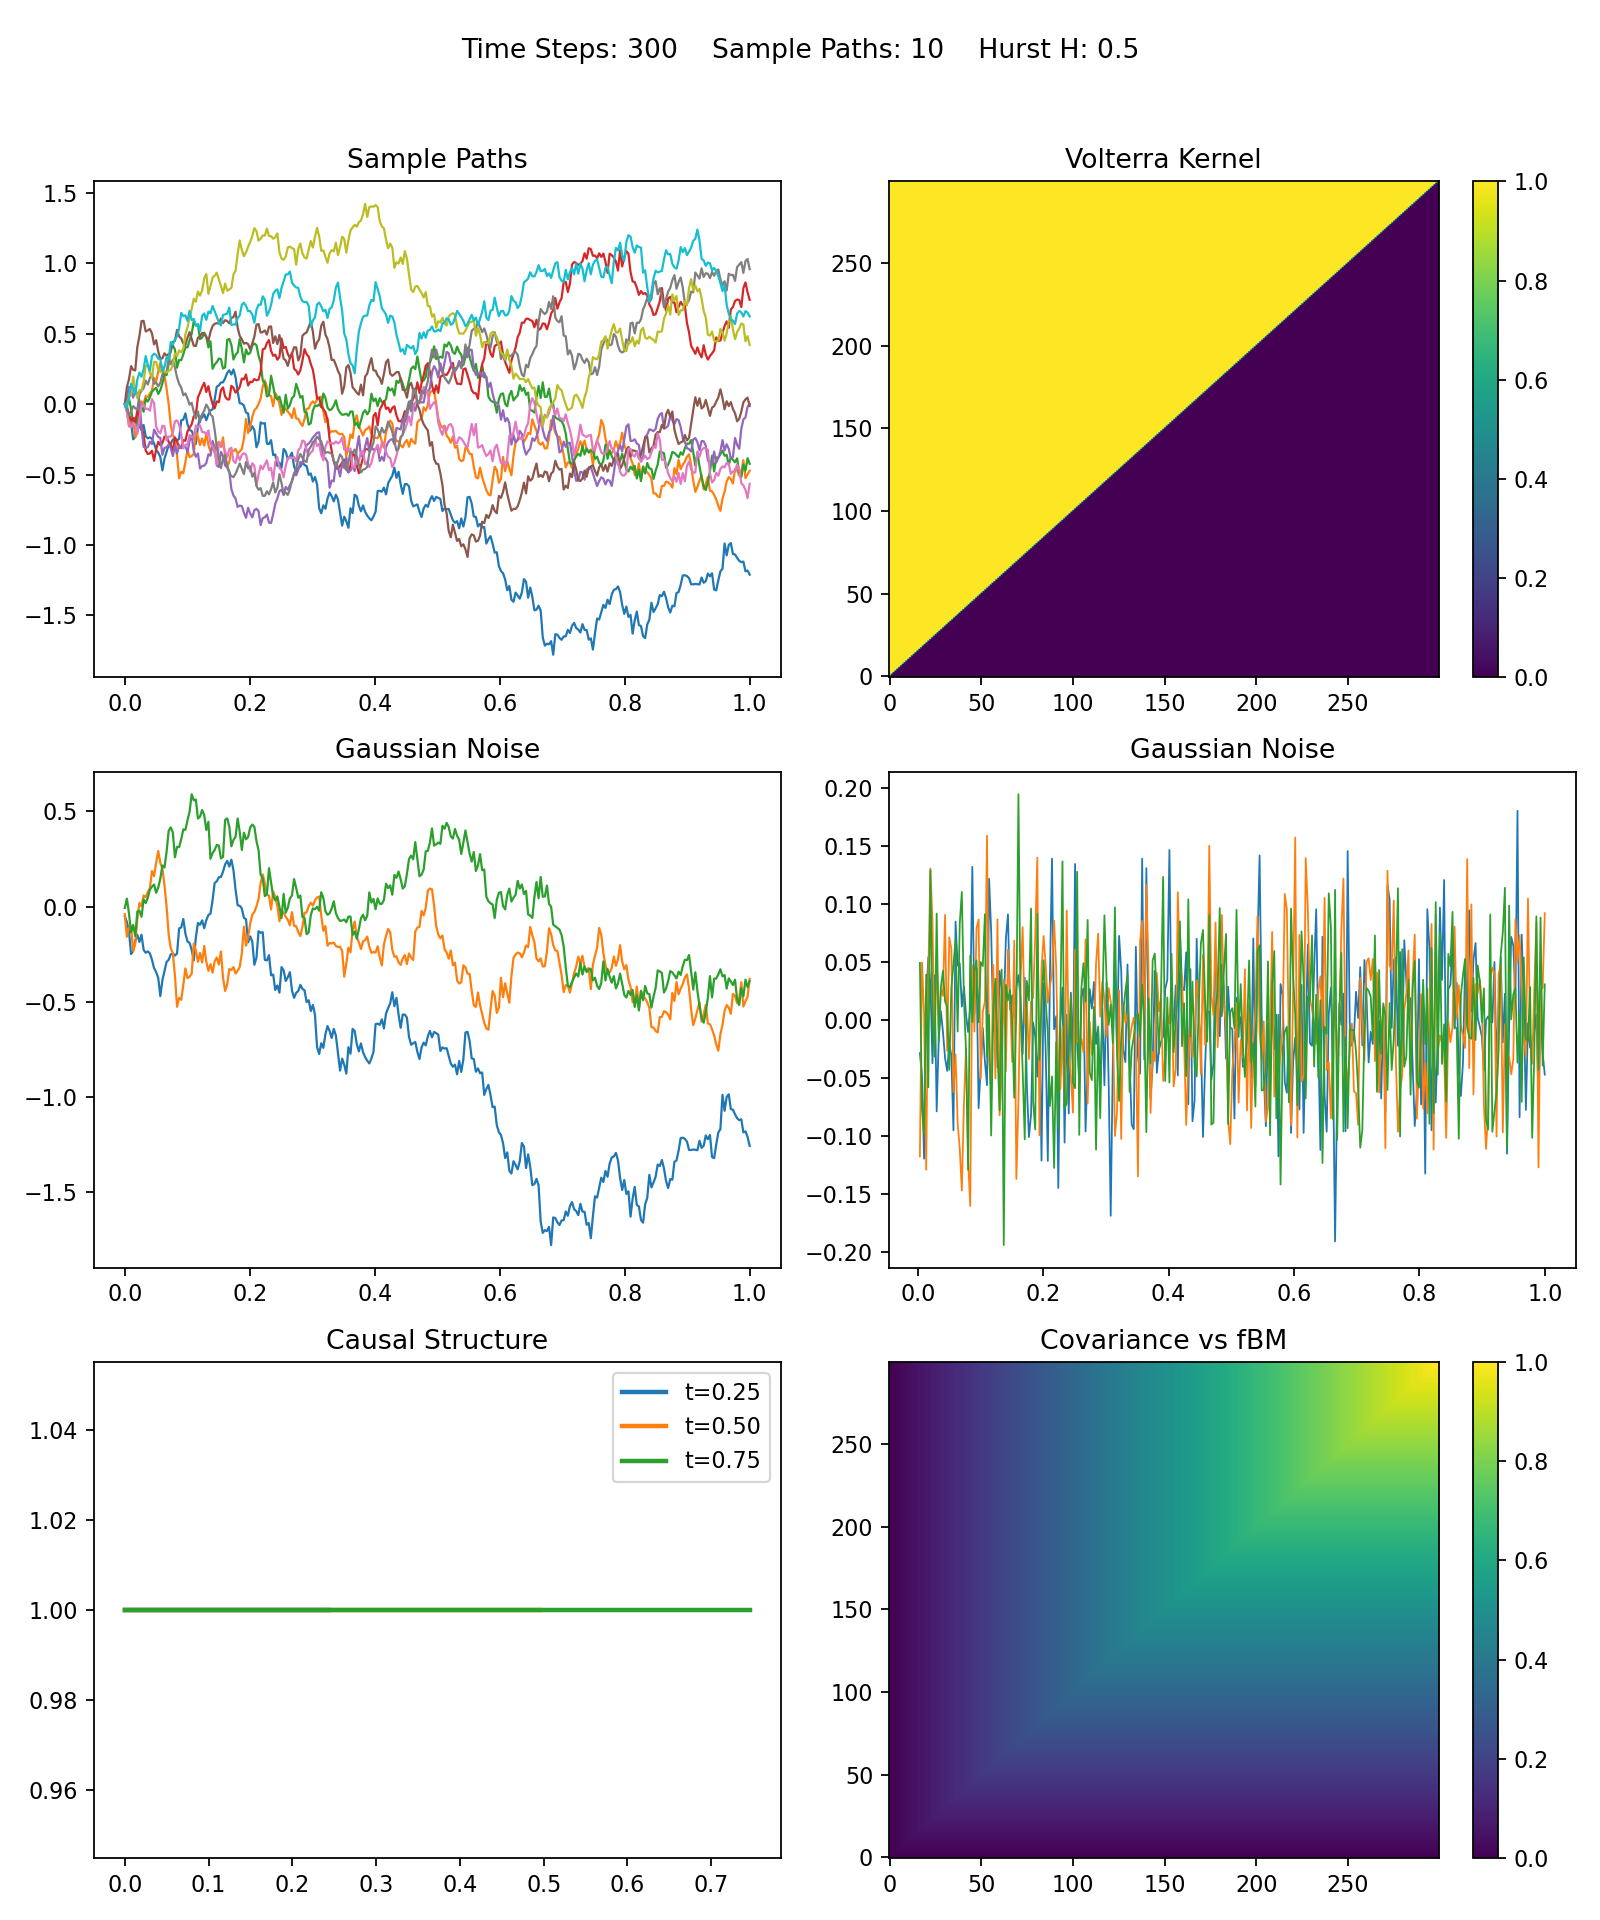
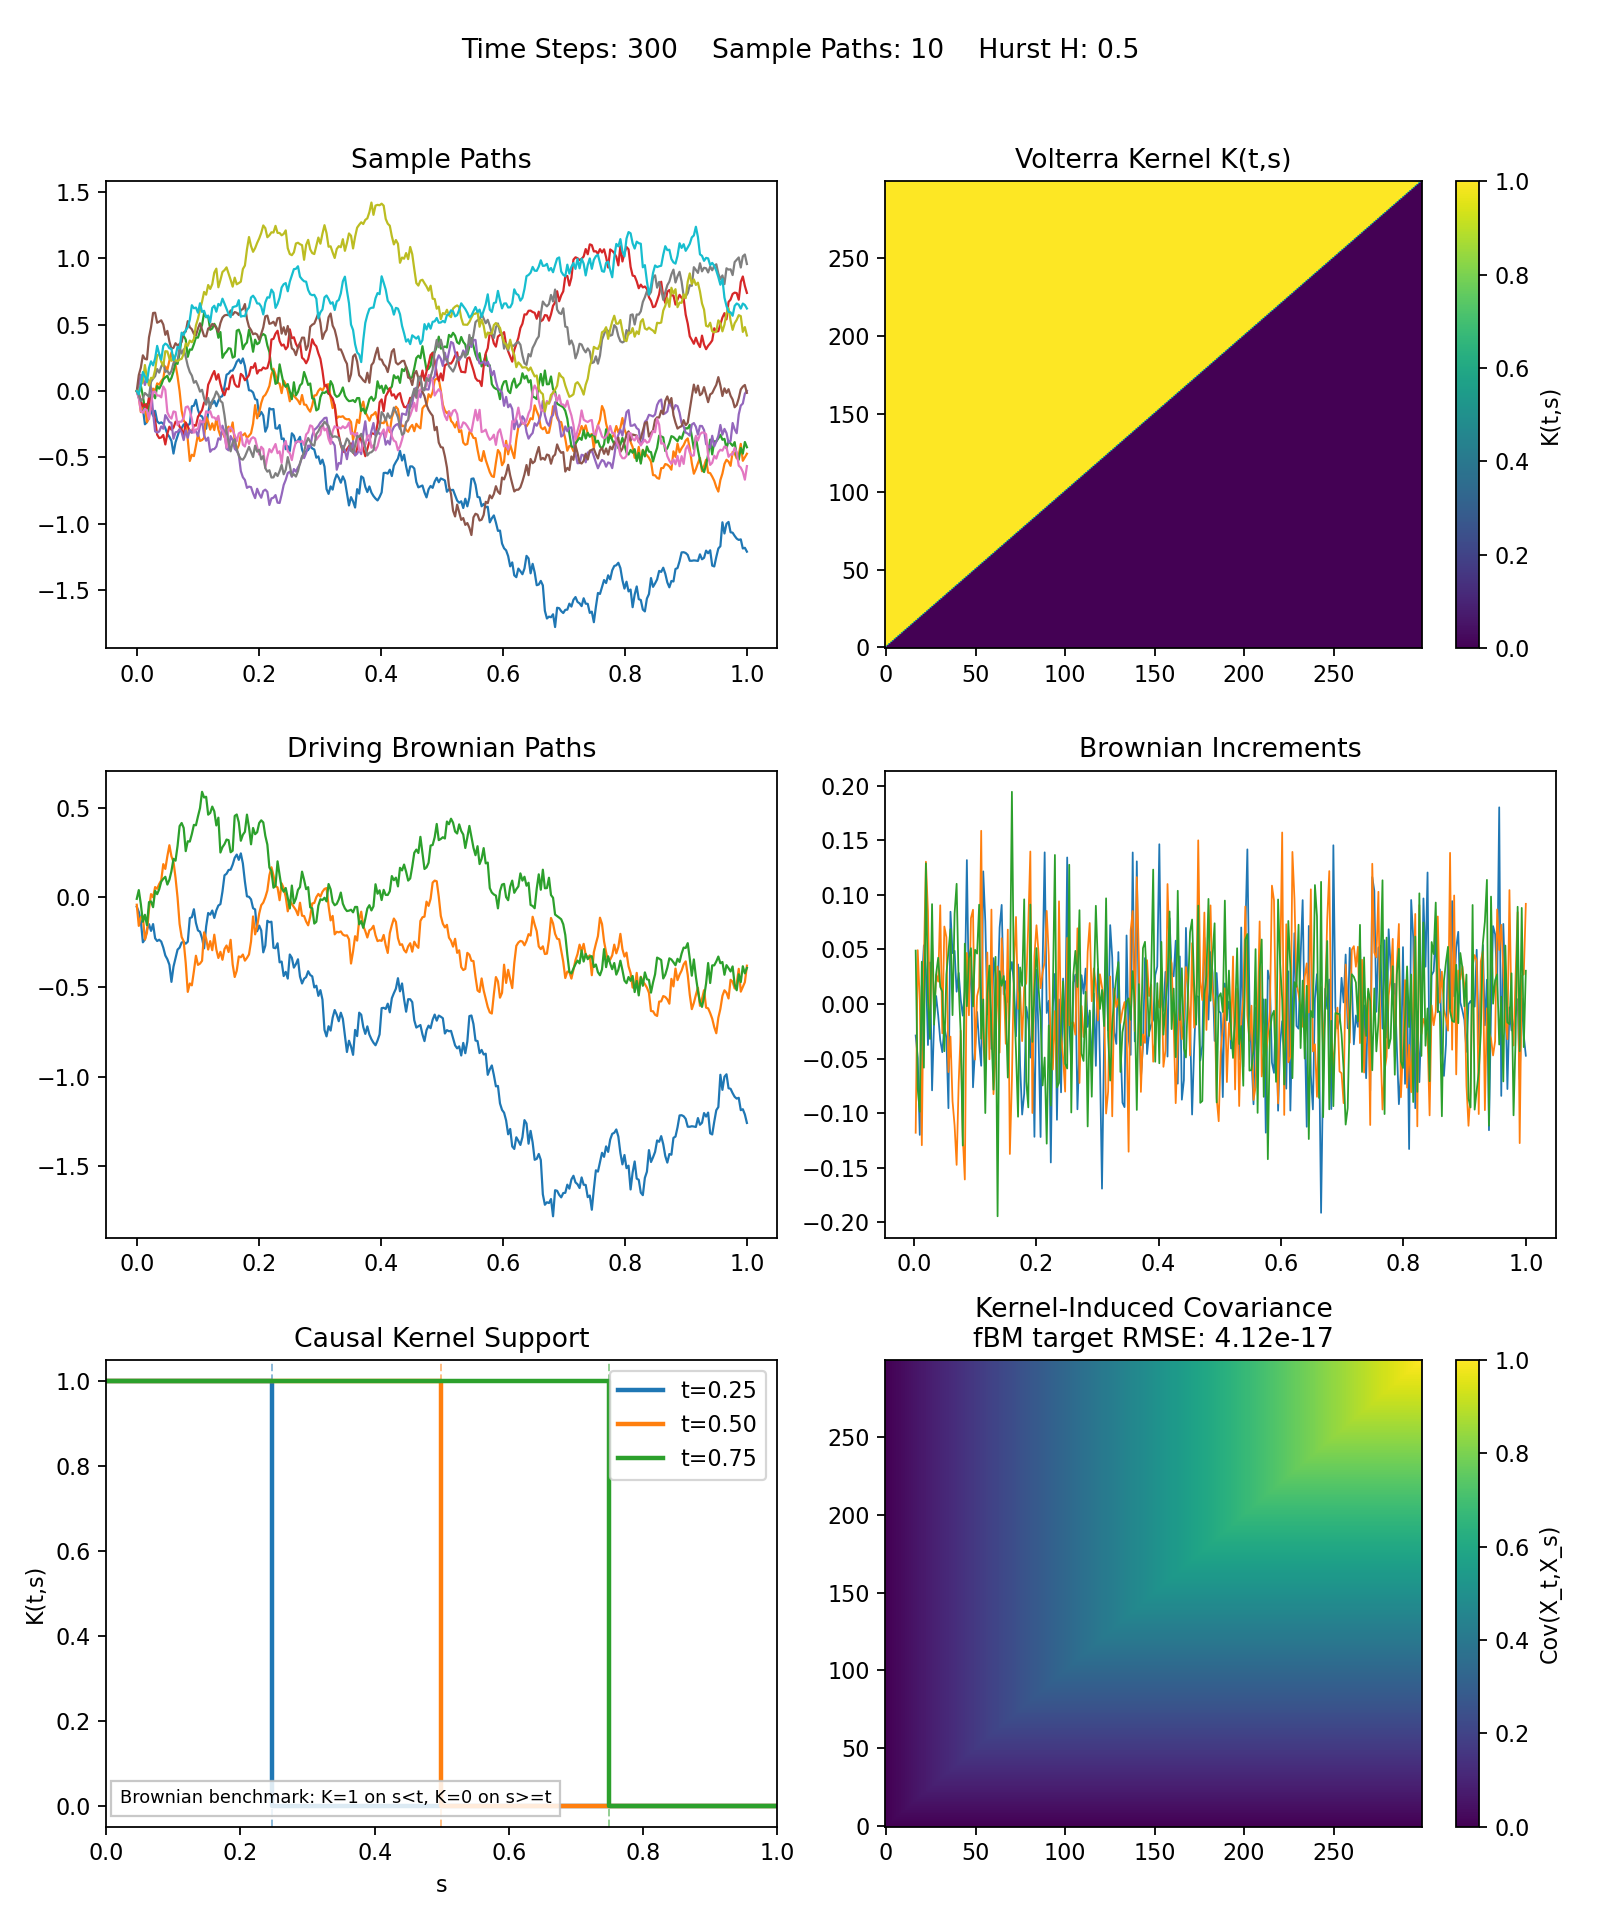
fix: correct Brownian Volterra diagnostics

diff --git a/Stoikov-Avellonada/Article-2-Rough-Volatility-HJB/src/generate_article_figures.py b/Stoikov-Avellonada/Article-2-Rough-Volatility-HJB/src/generate_article_figures.py
@@ -86,32 +86,72 @@ class ArticleFigureGenerator:
             self.config.sample_paths, self._seed(200, hurst)
         )
         target = fbm_covariance(self.grid.time, hurst)
+        induced = model.induced_covariance
+        covariance_rmse = float(np.sqrt(np.mean((induced - target) ** 2)))
+        kernel_limit = max(float(model.kernel.max()), 1e-12)
+        covariance_limit = max(float(induced.max()), float(target.max()), 1e-12)
         figure, axes = plt.subplots(3, 2, figsize=(10, 12))
         for row in paths:
             axes[0, 0].plot(self.grid.time, row, lw=1)
         axes[0, 0].set_title("Sample Paths")
-        image = axes[0, 1].imshow(model.kernel, origin="lower", aspect="auto")
-        figure.colorbar(image, ax=axes[0, 1])
-        axes[0, 1].set_title("Volterra Kernel")
+        image = axes[0, 1].imshow(
+            model.kernel,
+            origin="lower",
+            aspect="auto",
+            cmap="viridis",
+            vmin=0.0,
+            vmax=kernel_limit,
+        )
+        colorbar = figure.colorbar(image, ax=axes[0, 1])
+        colorbar.set_label("K(t,s)")
+        axes[0, 1].set_title("Volterra Kernel K(t,s)")
         for row in brownian[:3]:
             axes[1, 0].plot(self.grid.time, row, lw=1)
-        axes[1, 0].set_title("Gaussian Noise")
+        axes[1, 0].set_title("Driving Brownian Paths")
         for row in np.diff(brownian[:3], axis=1):
             axes[1, 1].plot(self.grid.time[1:], row, lw=0.8)
-        axes[1, 1].set_title("Gaussian Noise")
+        axes[1, 1].set_title("Brownian Increments")
         for fraction in (0.25, 0.50, 0.75):
             index = int(fraction * (self.config.steps - 1))
-            axes[2, 0].plot(
-                self.grid.time[:index],
-                model.kernel[index, :index],
+            (line,) = axes[2, 0].plot(
+                self.grid.time,
+                model.kernel[index],
                 lw=2,
+                drawstyle="steps-post",
                 label=f"t={self.grid.time[index]:.2f}",
             )
+            axes[2, 0].axvline(
+                self.grid.time[index], color=line.get_color(), ls="--", lw=0.9, alpha=0.5
+            )
         axes[2, 0].legend()
-        axes[2, 0].set_title("Causal Structure")
-        image = axes[2, 1].imshow(target, origin="lower", aspect="auto")
-        figure.colorbar(image, ax=axes[2, 1])
-        axes[2, 1].set_title("Covariance vs fBM")
+        axes[2, 0].set(
+            title="Causal Kernel Support",
+            xlabel="s",
+            ylabel="K(t,s)",
+            xlim=(self.grid.time[0], self.grid.time[-1]),
+        )
+        if abs(hurst - 0.5) < 1e-12:
+            axes[2, 0].text(
+                0.02,
+                0.05,
+                "Brownian benchmark: K=1 on s<t, K=0 on s>=t",
+                transform=axes[2, 0].transAxes,
+                fontsize=8,
+                bbox={"facecolor": "white", "alpha": 0.85, "edgecolor": "0.75"},
+            )
+        image = axes[2, 1].imshow(
+            induced,
+            origin="lower",
+            aspect="auto",
+            cmap="viridis",
+            vmin=0.0,
+            vmax=covariance_limit,
+        )
+        colorbar = figure.colorbar(image, ax=axes[2, 1])
+        colorbar.set_label("Cov(X_t,X_s)")
+        axes[2, 1].set_title(
+            f"Kernel-Induced Covariance\nfBM target RMSE: {covariance_rmse:.2e}"
+        )
         figure.suptitle(
             f"Time Steps: {self.config.steps}    Sample Paths: {self.config.sample_paths}    "
             f"Hurst H: {hurst:.1f}"

diff --git a/Stoikov-Avellonada/Article-2-Rough-Volatility-HJB/src/interactive_volterra_dashboard.py b/Stoikov-Avellonada/Article-2-Rough-Volatility-HJB/src/interactive_volterra_dashboard.py
@@ -31,7 +31,7 @@ class VolterraDashboard(InteractiveDashboard):
         samples, brownian = model.simulate(paths, seed=456)
         stop = max(2, int(self.value("window") * (steps - 1)))
         target = fbm_covariance(model.grid.time, hurst)
-        empirical = np.cov(samples, rowvar=False)
+        induced = model.induced_covariance
 
         for row in samples[: min(paths, 15)]:
             self.axes[0, 0].plot(model.grid.time, row, lw=1.0)
@@ -56,20 +56,35 @@ class VolterraDashboard(InteractiveDashboard):
 
         for fraction in (0.25, 0.50, 0.75):
             index = max(2, int(fraction * (steps - 1)))
-            self.axes[2, 0].plot(
-                model.grid.time[:index],
-                model.kernel[index, :index],
+            (line,) = self.axes[2, 0].plot(
+                model.grid.time,
+                model.kernel[index],
                 lw=2.0,
+                drawstyle="steps-post",
                 label=f"t={model.grid.time[index]:.2f}",
             )
-        self.axes[2, 0].set(title="Causal Kernel Slices", xlabel="s", ylabel="K(t,s)")
+            self.axes[2, 0].axvline(
+                model.grid.time[index], color=line.get_color(), ls="--", lw=0.9, alpha=0.5
+            )
+        self.axes[2, 0].set(
+            title="Causal Kernel Support",
+            xlabel="s",
+            ylabel="K(t,s)",
+            xlim=(model.grid.time[0], model.grid.time[-1]),
+        )
         self.axes[2, 0].legend(fontsize=8)
 
-        rmse = float(np.sqrt(np.mean((empirical - target) ** 2)))
+        rmse = float(np.sqrt(np.mean((induced - target) ** 2)))
+        covariance_limit = max(float(induced.max()), float(target.max()), 1e-12)
         image = self.axes[2, 1].imshow(
-            empirical, origin="lower", aspect="auto", cmap="viridis"
+            induced,
+            origin="lower",
+            aspect="auto",
+            cmap="viridis",
+            vmin=0.0,
+            vmax=covariance_limit,
         )
-        self.axes[2, 1].set_title(f"Empirical Covariance, RMSE={rmse:.2e}")
+        self.axes[2, 1].set_title(f"Kernel-Induced Covariance, fBM RMSE={rmse:.2e}")
         self.add_colorbar(image, self.axes[2, 1])
 
 

diff --git a/Stoikov-Avellonada/Article-2-Rough-Volatility-HJB/tests/test_numerics.py b/Stoikov-Avellonada/Article-2-Rough-Volatility-HJB/tests/test_numerics.py
@@ -104,6 +104,20 @@ class RoughProcessTests(unittest.TestCase):
         _, _, _, kernel = rp.simulate_volterra(24, 0.3, 5, 0.75, 11)
         self.assertTrue(np.allclose(np.triu(kernel), 0.0))
 
+    def test_brownian_volterra_kernel_is_causal_and_covariance_is_exact(self) -> None:
+        grid = rp.SimulationGrid(24, 0.75)
+        model = rp.VolterraProcess(grid, 0.5)
+        expected_kernel = np.tril(np.ones((grid.steps, grid.steps)), k=-1)
+
+        np.testing.assert_array_equal(model.kernel, expected_kernel)
+        np.testing.assert_allclose(
+            model.induced_covariance,
+            rp.fbm_covariance(grid.time, 0.5),
+            rtol=0.0,
+            atol=1e-14,
+        )
+        self.assertTrue(np.all(model.kernel[np.triu_indices(grid.steps)] == 0.0))
+
     def test_validation_rejects_invalid_parameters(self) -> None:
         with self.assertRaises(ValueError):
             rp.SimulationGrid(2)

diff --git a/Stoikov-Avellonada/Article-2-Rough-Volatility-HJB/src/rough_processes.py b/Stoikov-Avellonada/Article-2-Rough-Volatility-HJB/src/rough_processes.py
@@ -173,6 +173,11 @@ class VolterraProcess:
         ) ** (self.hurst - 0.5)
         return kernel
 
+    @cached_property
+    def induced_covariance(self) -> np.ndarray:
+        """Discrete covariance generated by the causal kernel and Brownian shocks."""
+        return self.grid.dt * (self.kernel @ self.kernel.T)
+
     def simulate(self, paths: int = 10, seed: int = 77) -> tuple[np.ndarray, np.ndarray]:
         count = _positive_int(paths, "paths")
         rng = np.random.default_rng(seed)
